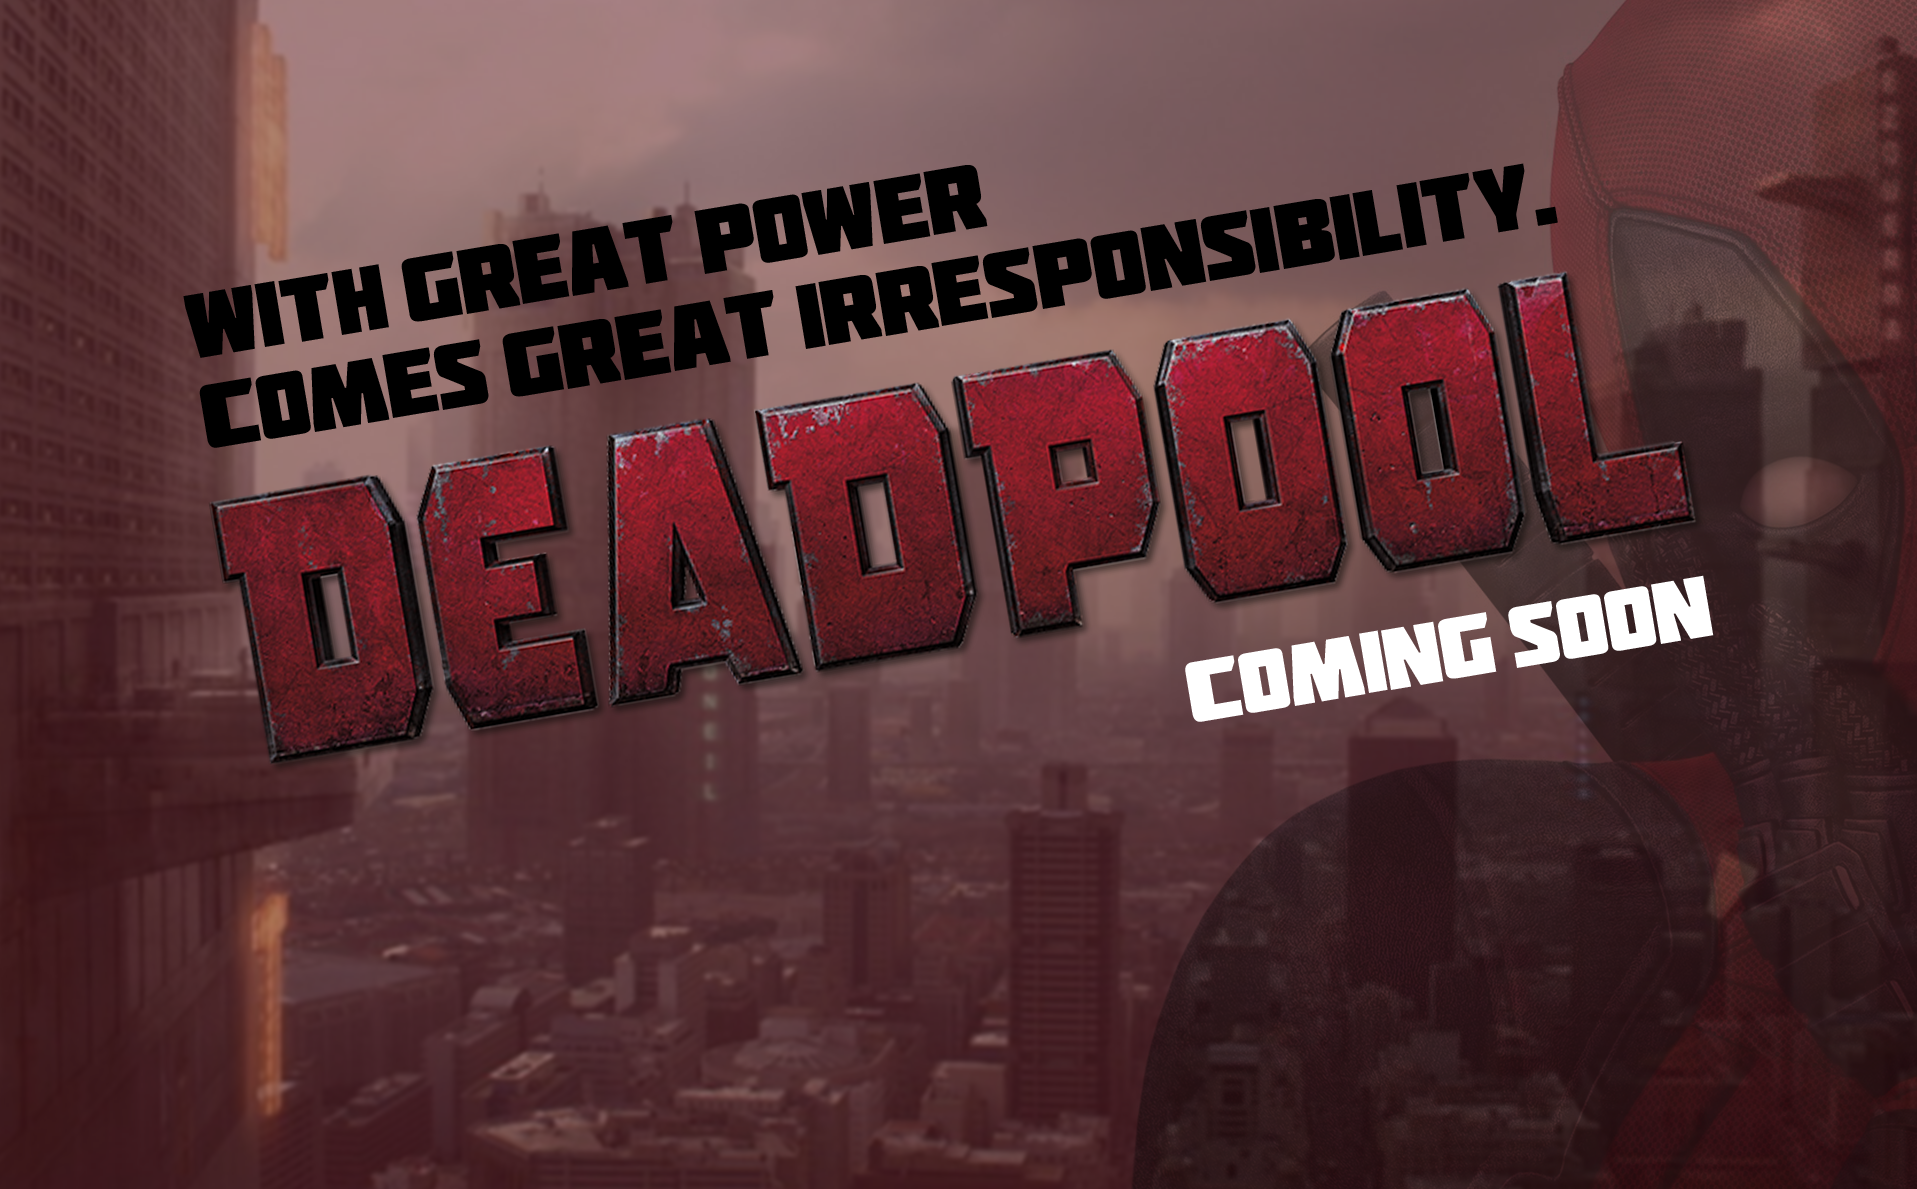
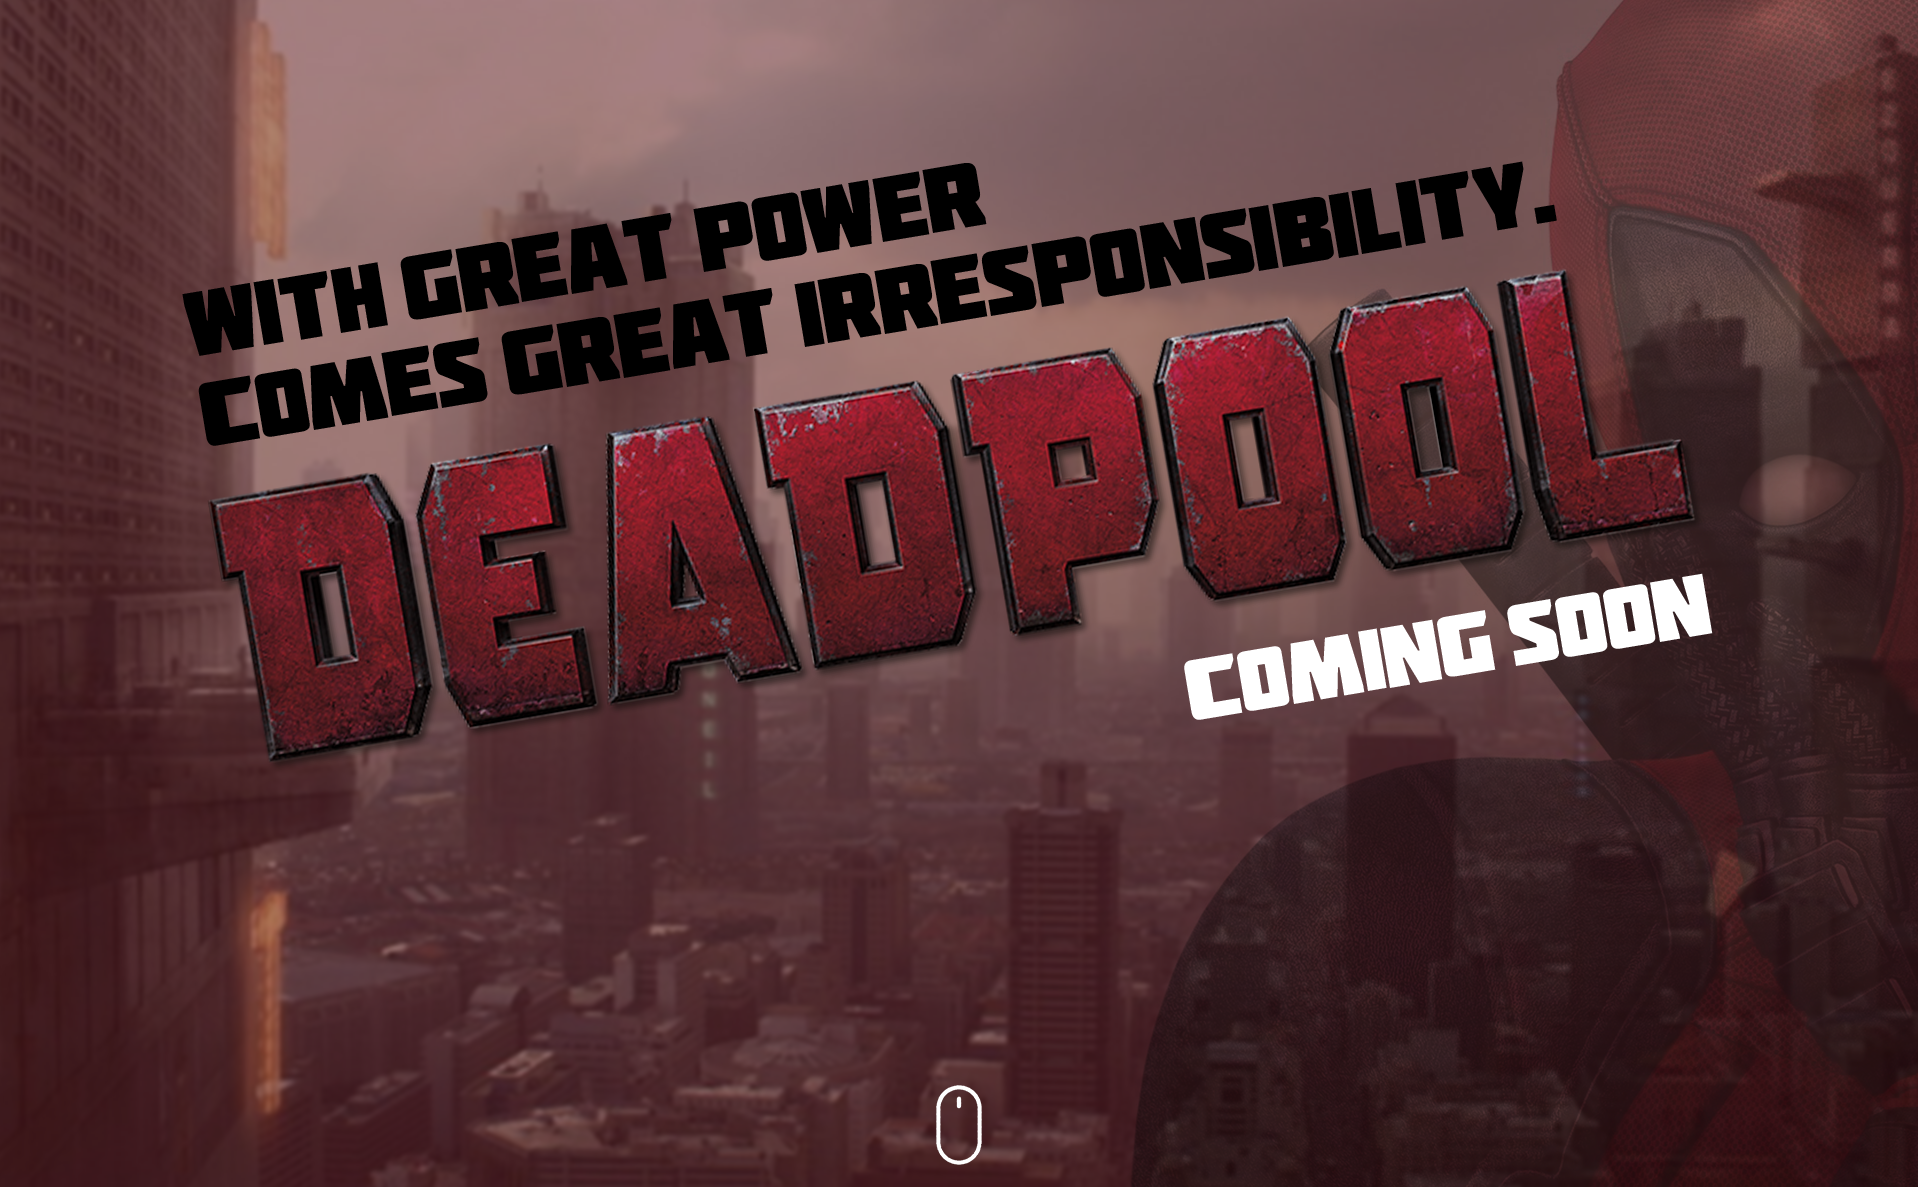
backgrounds

diff --git a/index.html b/index.html
@@ -10,13 +10,15 @@
 		<div class="section1">
 			<img class="logo" src="media/images/logo.png">
 			<img class="deadpool1" src="media/images/deadpool1.png">
-			<img class="scroll" src="media/images/scroll.png">
 		</div>
 		<div class="section2">
 			<div class="section2_content">
 				<img class="about" src="media/images/about.png">
 				<p class="deadpool_p">Wade Wilson is a former Special Forces operative who now works as a mercenary. His world comes crashing down when evil scientist Ajax tortures, disfigures and transforms him into Deadpool. The rogue experiment leaves Deadpool with accelerated healing powers and a twisted sense of humor. With help from mutant allies Colossus and Negasonic Teenage Warhead, Deadpool uses his new skills to hunt down the man who nearly destroyed his life.</p>
 			</div>
+		</div>
+		<div class="section3">
+			
 		</div>
 	</div>
 </body>

diff --git a/styles/index.css b/styles/index.css
@@ -14,6 +14,7 @@
 	height: 1189px;
 	background: url(../media/images/backgroundimg.png);
 	background-repeat: no-repeat;
+	background-size: cover;
 }
 
 	.logo {
@@ -21,18 +22,16 @@
 	}
 
 	.deadpool1 {
-		margin: 19% 0 0 30%;
+		margin: 15% 0 0 30%;
 	}
 
-	.scroll {
-		margin: -4% 48% 0 48%;
-	}
 
 .section2 {
 	width: 100%;
-	height: 1210px;
+	height: 1340px;
 	background: url(../media/images/backgroundimg2.png);
 	background-repeat: no-repeat;
+	background-size: cover;
 }
 
 	.deadpool2 {
@@ -56,3 +55,11 @@
 			font-family: 'Roboto', sans-serif;
 			
 		}
+
+.section3 {
+	width: 100%;
+	height: 1200px;
+	background: url(../media/images/backgroundimg3.png);
+	background-repeat: no-repeat;
+	background-size: cover;
+}
